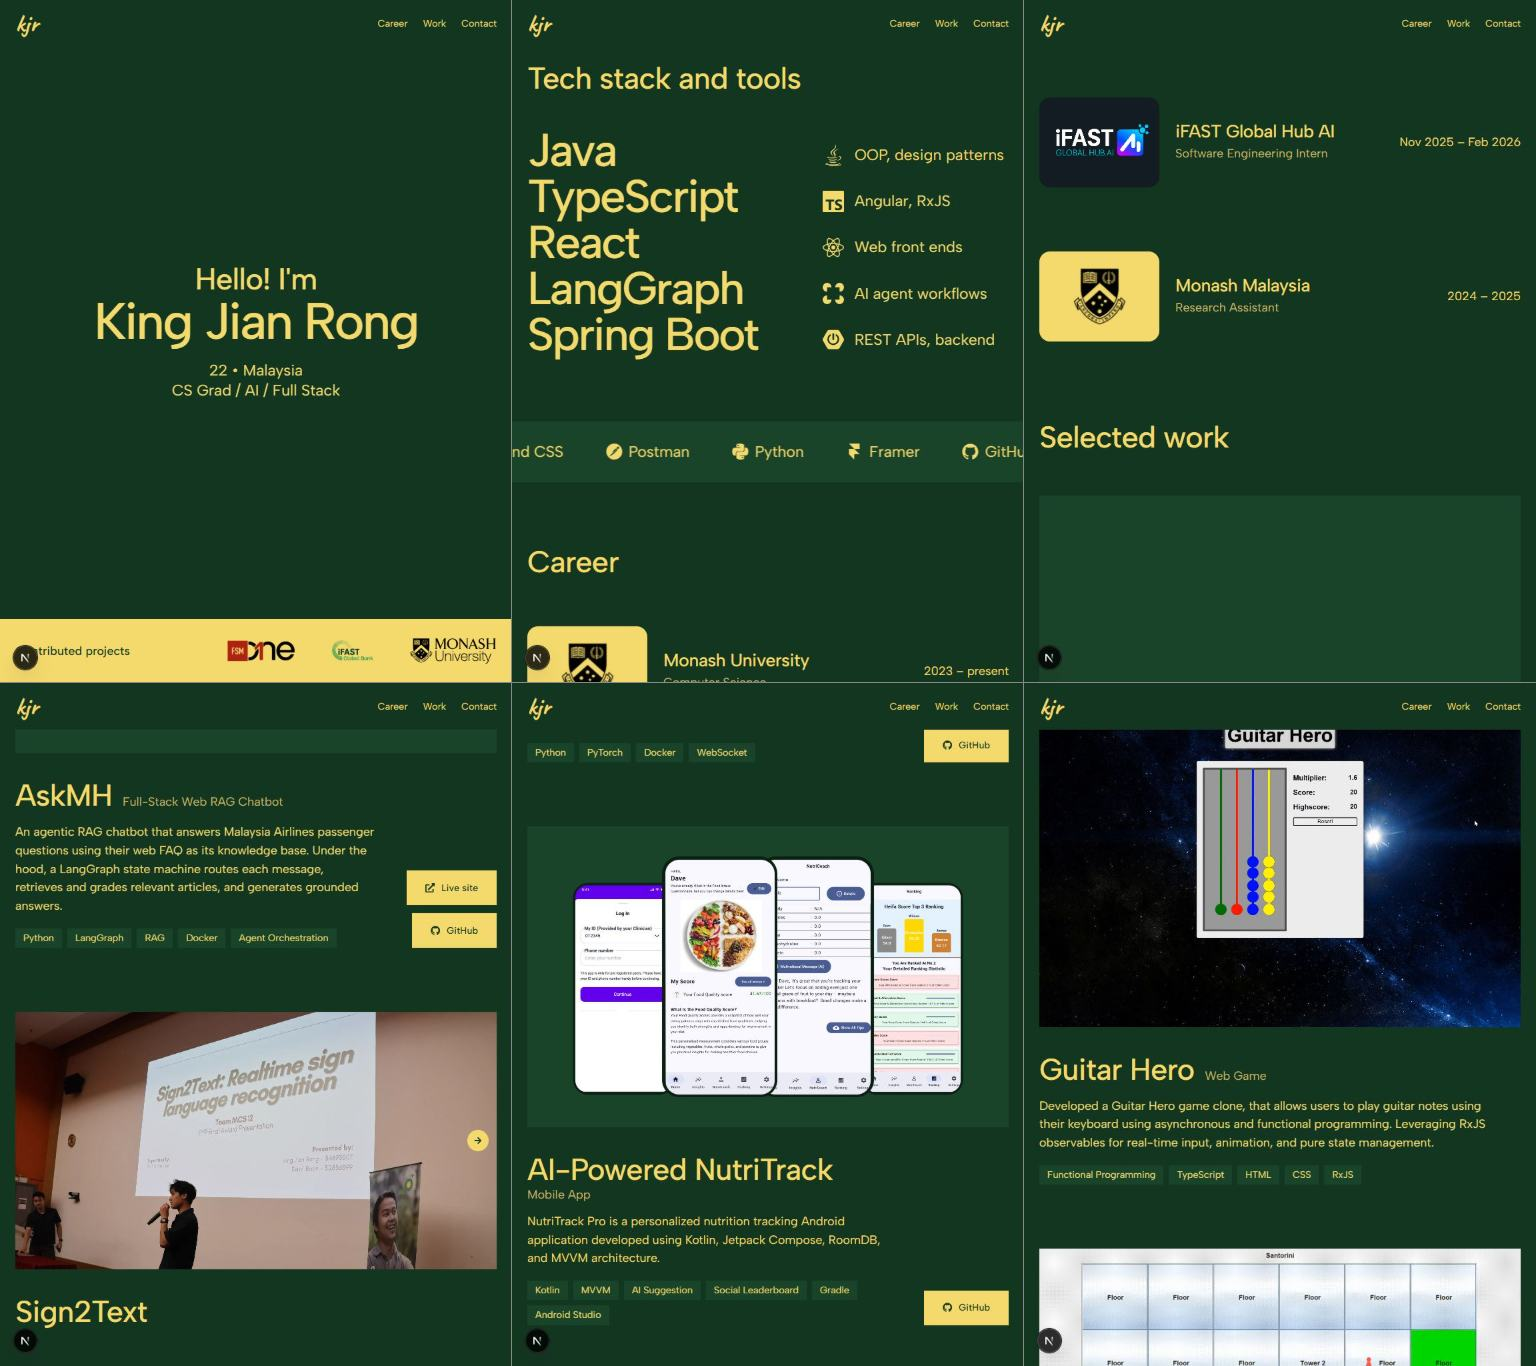
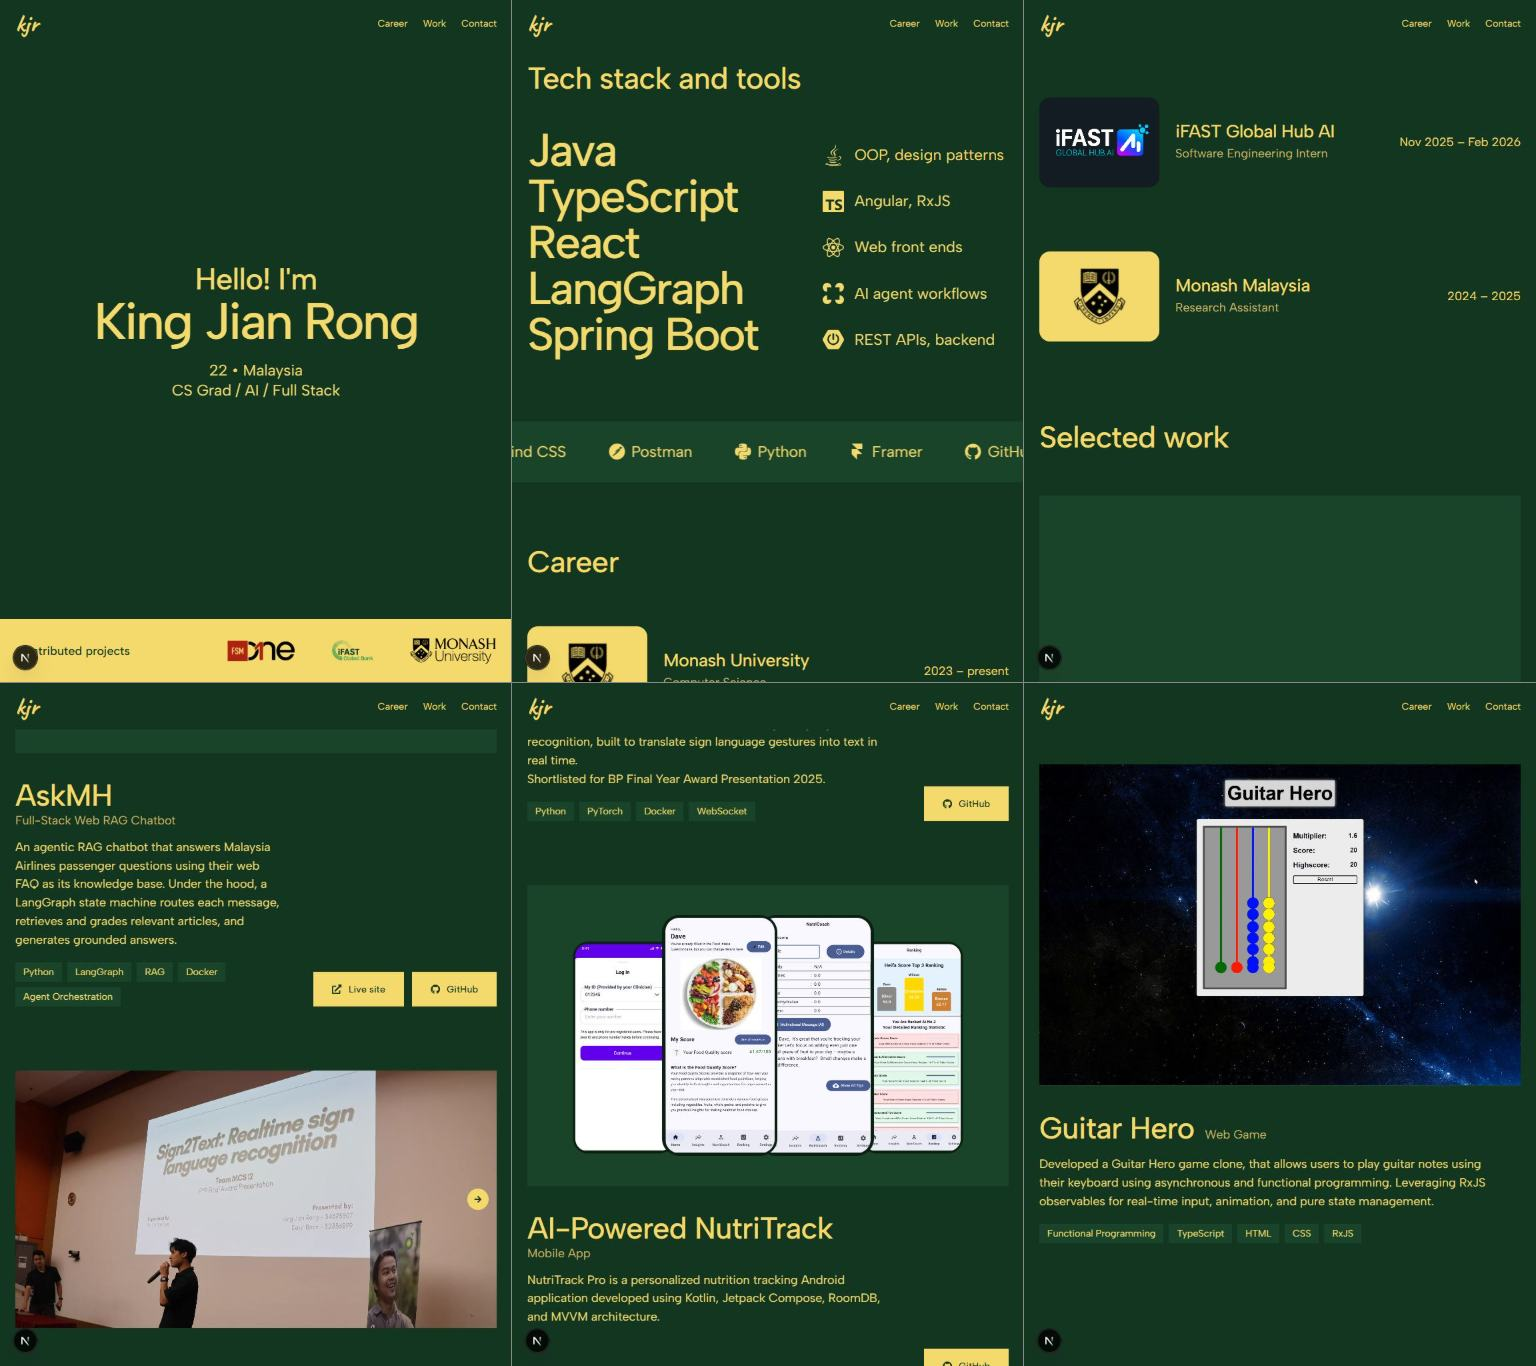
Added Details for AskMH Project

diff --git a/app/components/FeaturedWork.tsx b/app/components/FeaturedWork.tsx
@@ -95,7 +95,7 @@ export default function FeaturedWork() {
     <section id="work" className={styles.section}>
       <div className={styles.header}>
         <motion.h2 className={styles.heading} {...rise()}>
-          Selected work
+          Projects
         </motion.h2>
       </div>
 

diff --git a/app/components/Nav.tsx b/app/components/Nav.tsx
@@ -5,7 +5,7 @@ import styles from "./Nav.module.css";
 
 const links = [
   { href: "#career", label: "Career" },
-  { href: "#work", label: "Work" },
+  { href: "#work", label: "Projects" },
   { href: "#contact", label: "Contact" },
 ];
 

diff --git a/app/components/FeaturedWork.module.css b/app/components/FeaturedWork.module.css
@@ -114,9 +114,10 @@
 }
 
 .actions {
-  display: flex;
-  flex-wrap: wrap;
-  justify-content: flex-end;
+  display: grid;
+  grid-auto-flow: column;
+  grid-auto-columns: 1fr;
+  justify-content: end;
   gap: 12px;
 }
 
